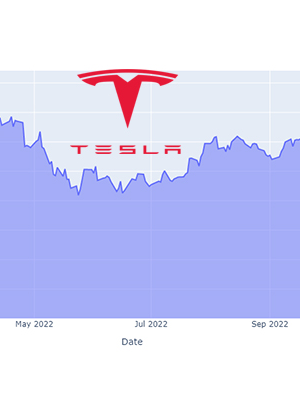
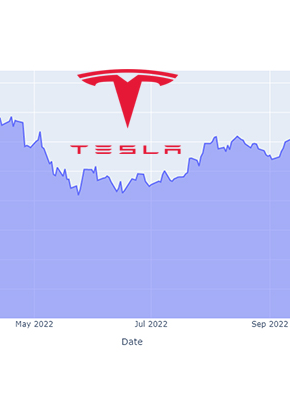
Projects responsive fixed

Changed region(s): [[0.96, 0.18, 1.0, 0.81]]

diff --git a/projects.html b/projects.html
@@ -98,7 +98,7 @@
                       </p>
                     </div>
                     <img
-                      class="img-fluid"
+                      class="img-fluid d-none d-md-block"
                       src="./assets/tesla.png"
                       alt="Tesla Stock Price Prediction"
                     />
@@ -123,7 +123,7 @@
                       </p>
                     </div>
                     <img
-                      class="img-fluid"
+                      class="img-fluid d-none d-md-block"
                       src="./assets/sales.jpg"
                       alt="Sales Analysis and Projection"
                     />
